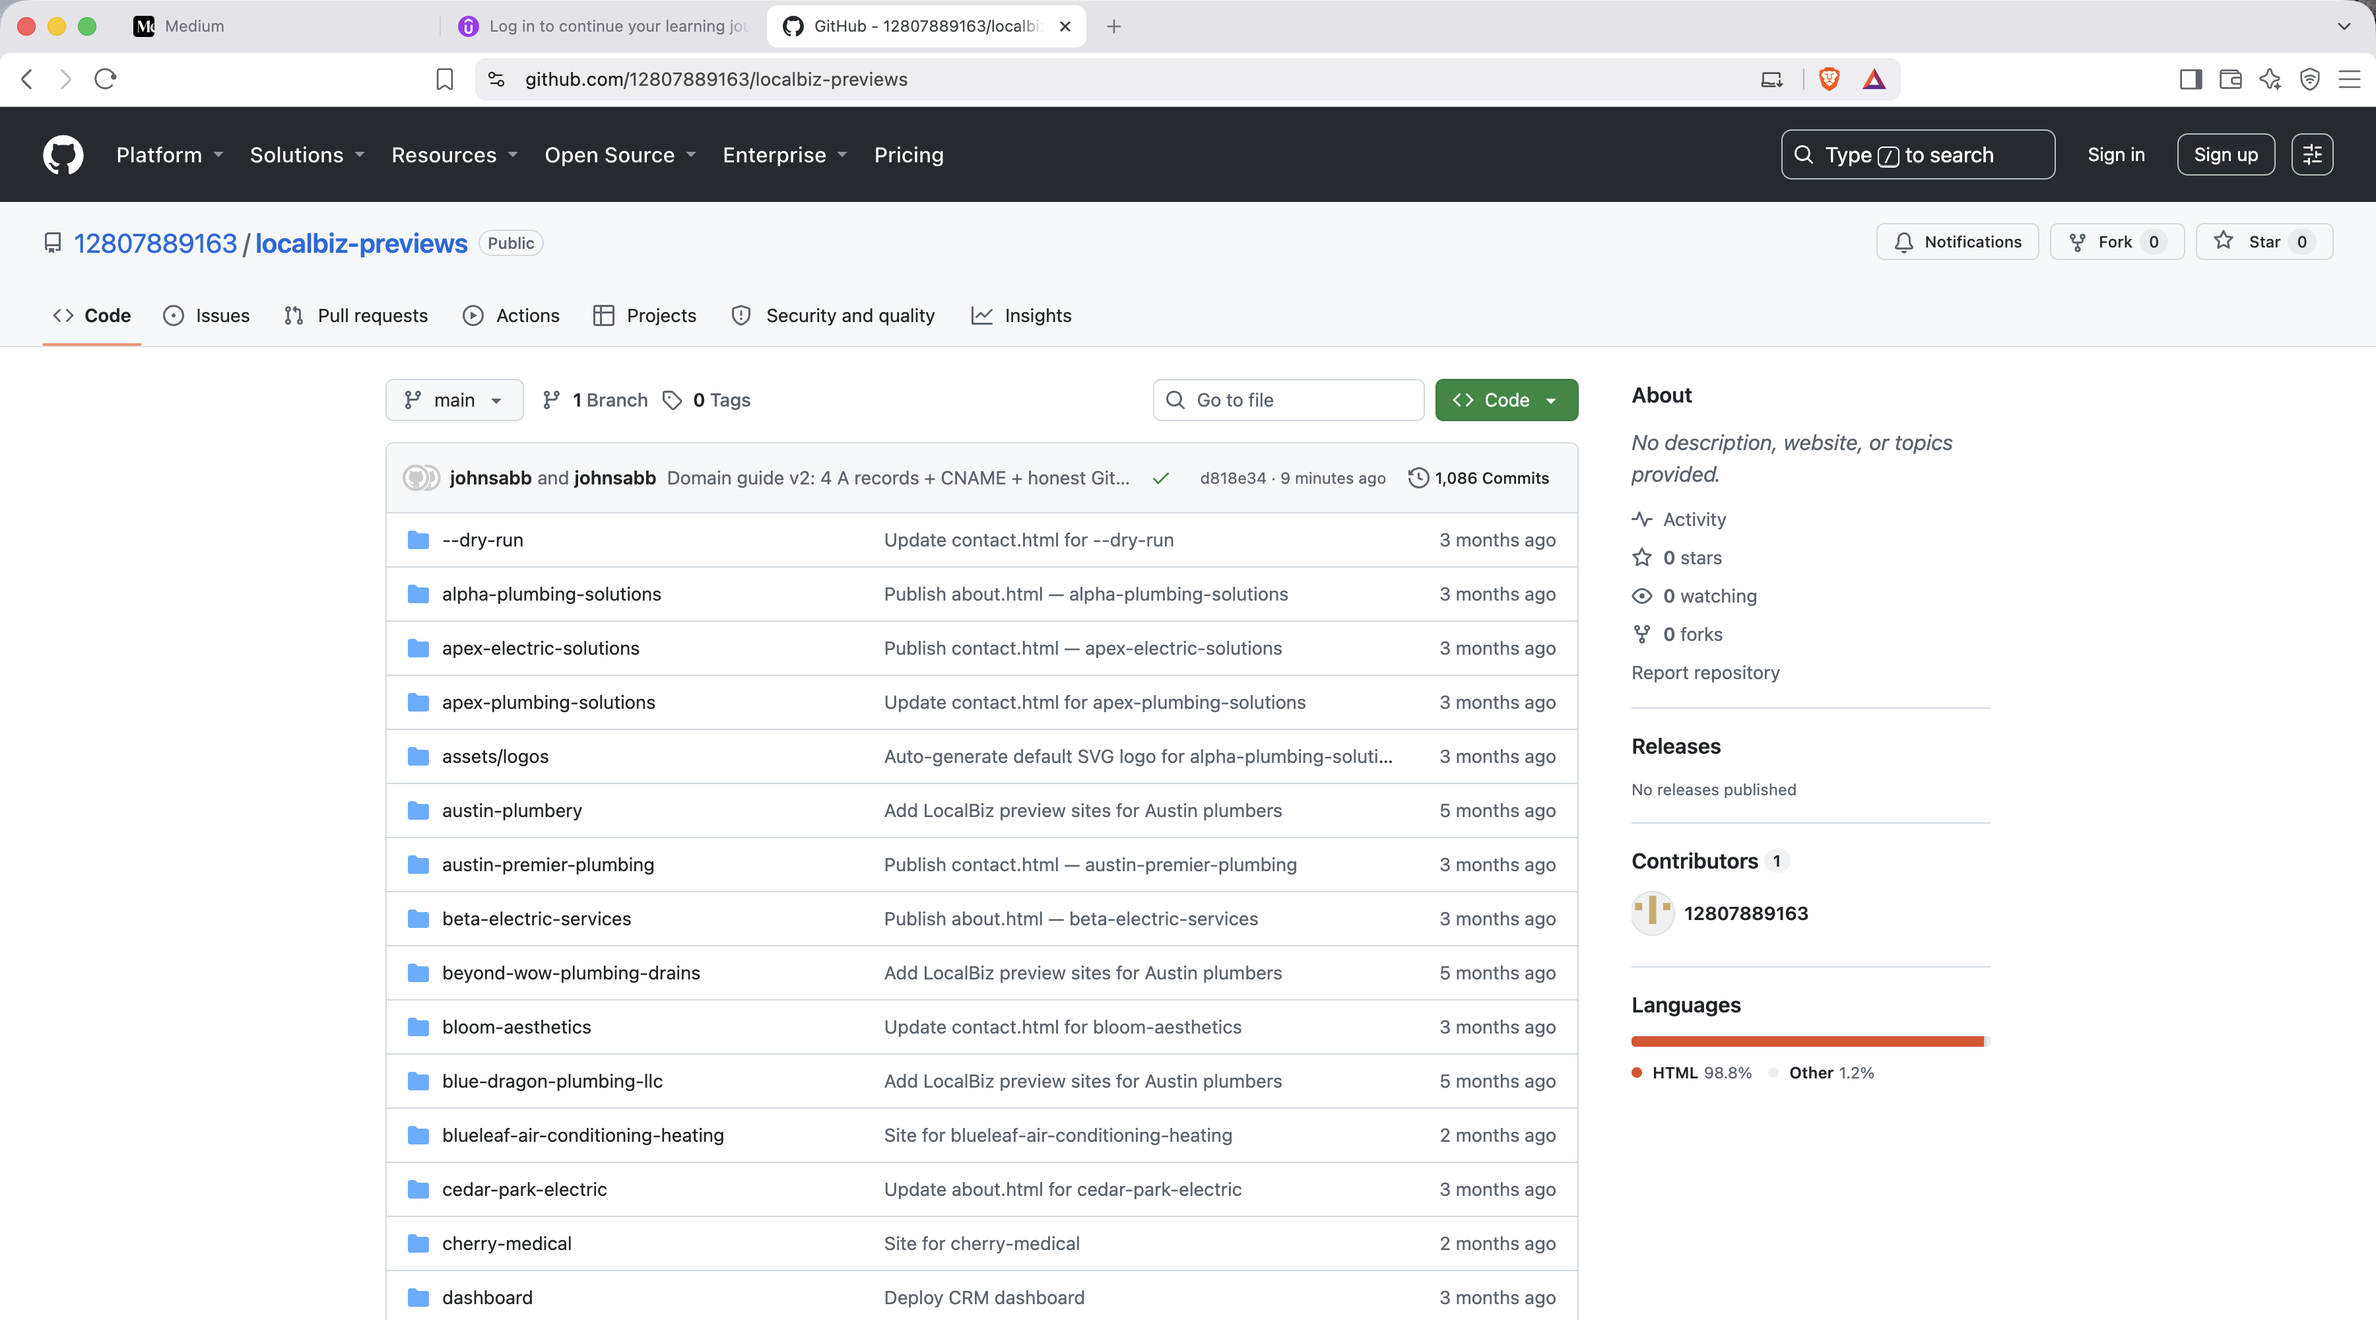
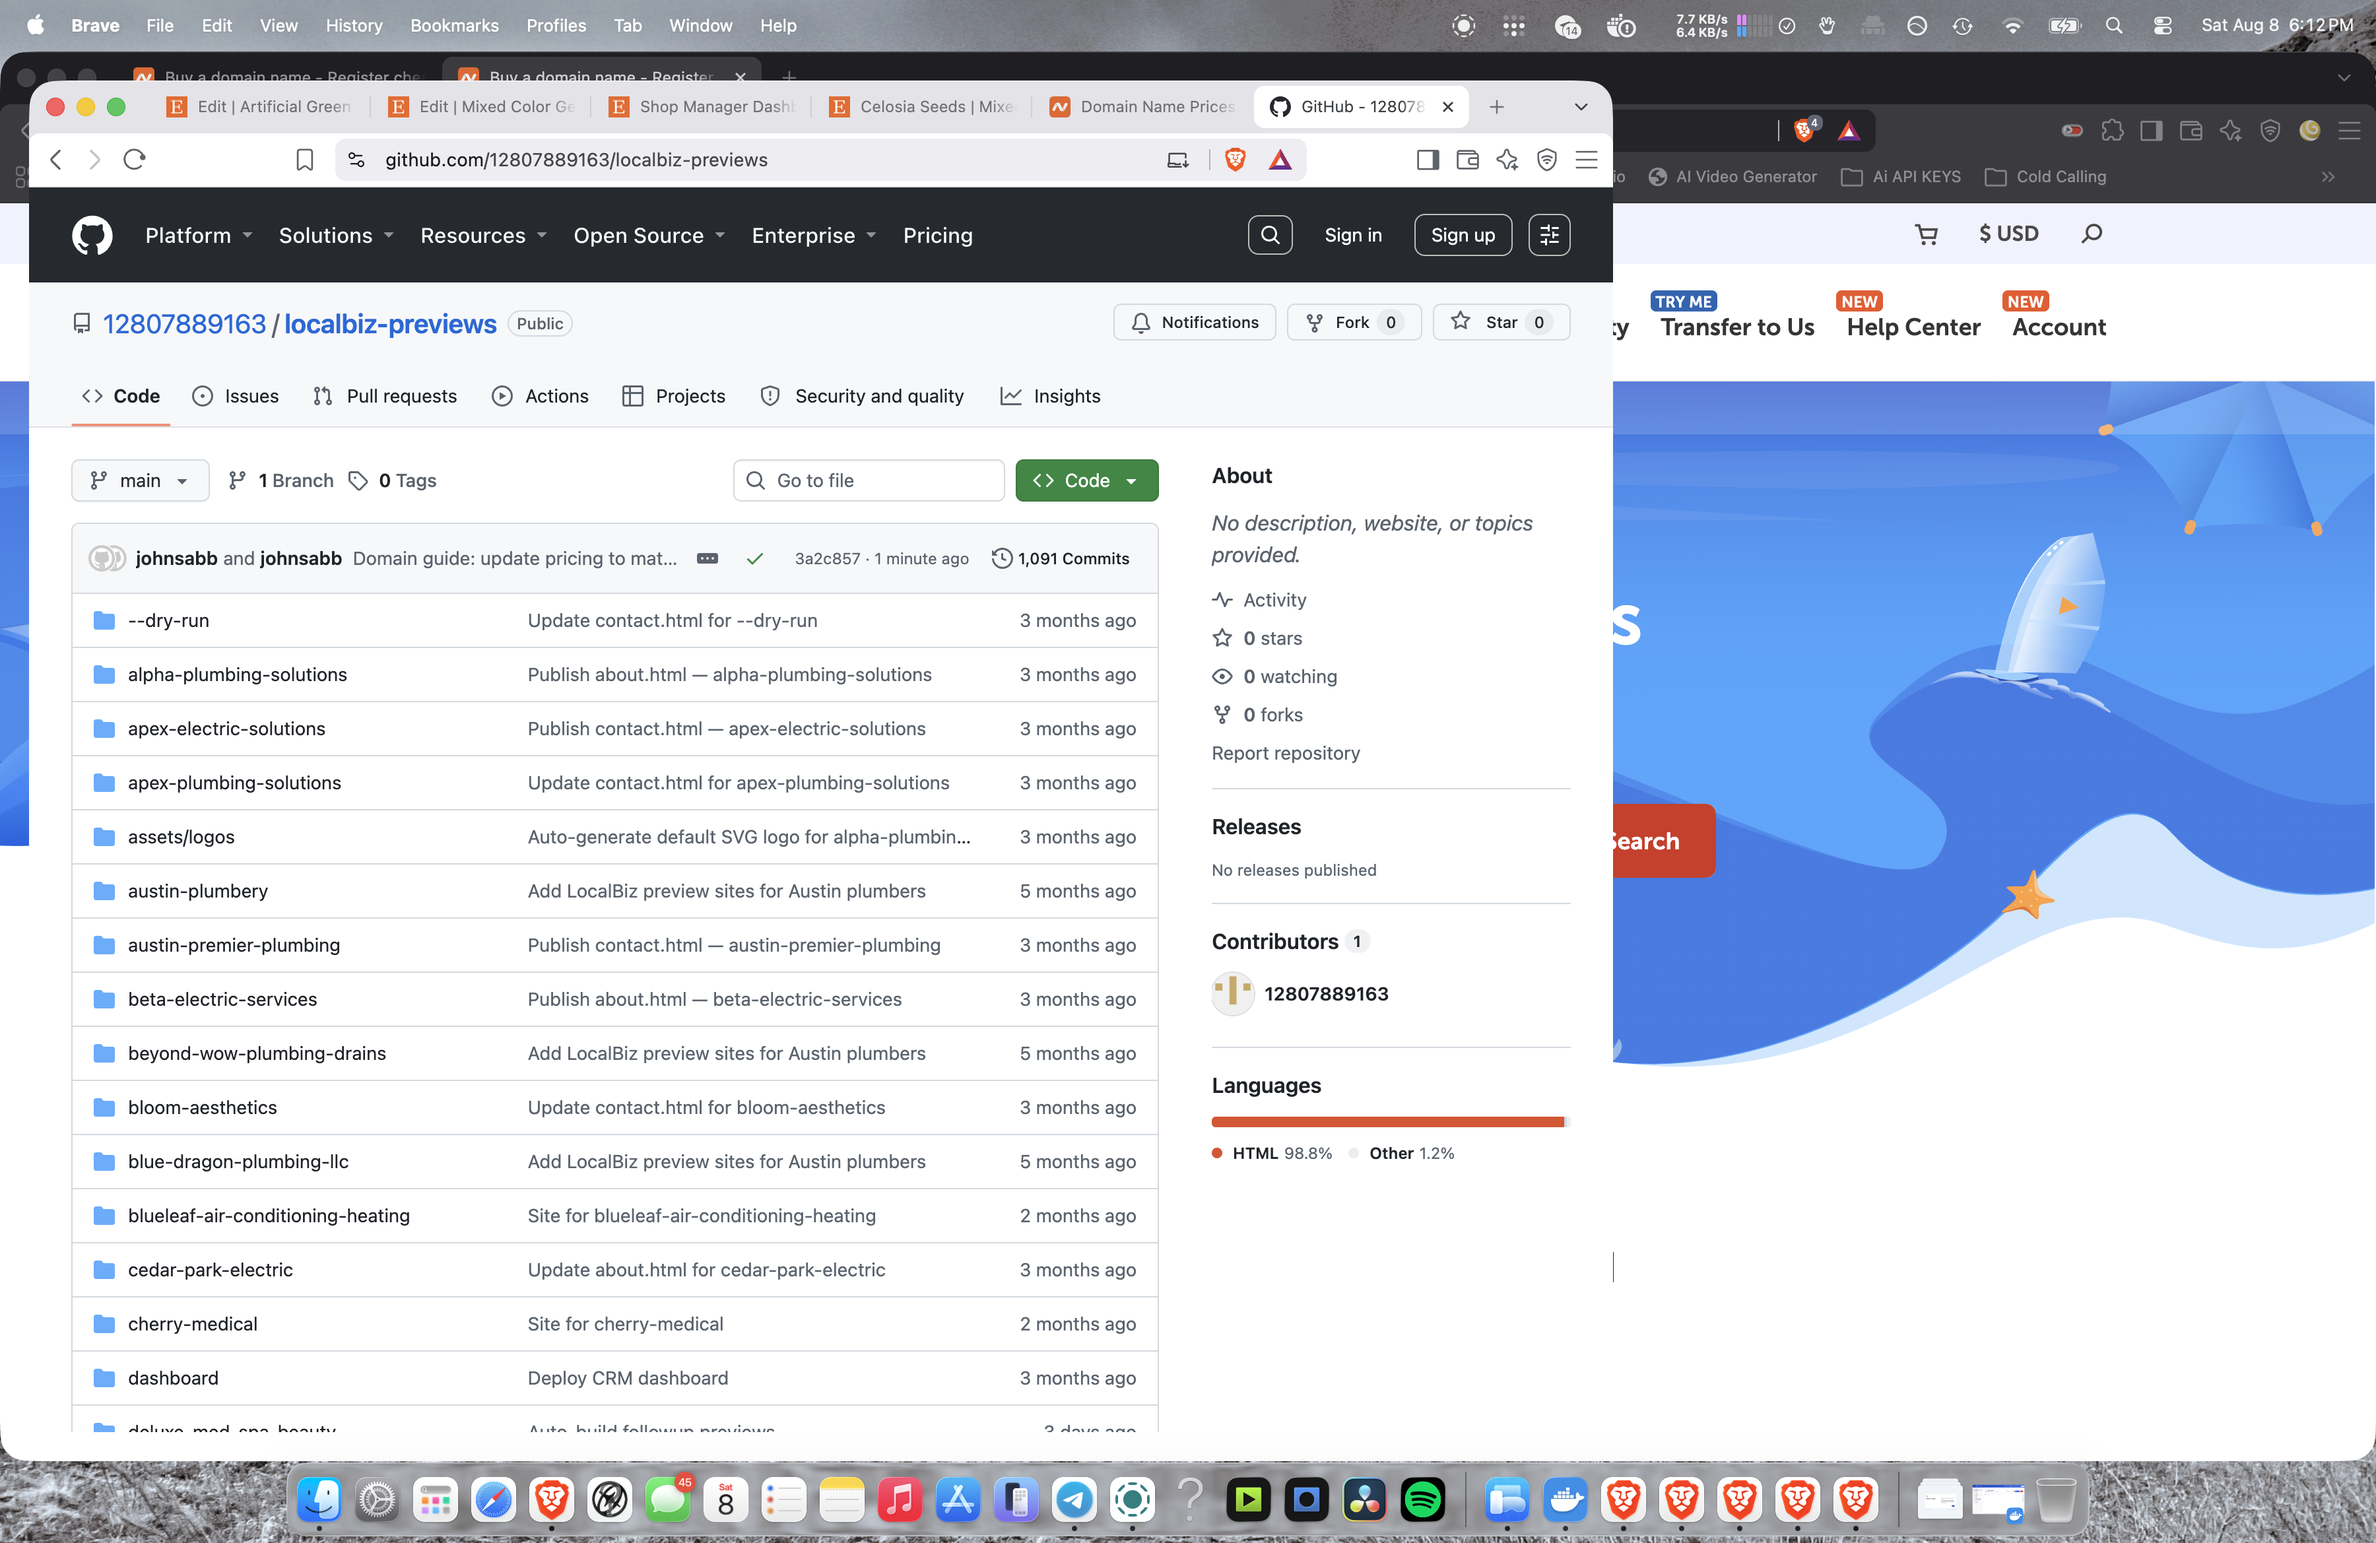
Domain guide: real GitHub Pages docs screenshot + updated captions

diff --git a/domain-guide/index.html b/domain-guide/index.html
@@ -593,17 +593,12 @@
       <div class="shot">
         <div class="shot-header">
           <span class="dots"><span class="dot r"></span><span class="dot y"></span><span class="dot g"></span></span>
-          <span class="shot-url">github.com/.../settings/pages</span>
+          <span class="shot-url">docs.github.com/en/pages</span>
         </div>
         <div class="shot-body">
-          <!-- TODO(auth): real GitHub Pages settings screenshot pending login session -->
-          <div style="background:#f8fafc;border:1px dashed #cbd5e1;padding:60px 20px;text-align:center;color:#475569;font-size:14px;border-radius:6px;">
-            <strong>Live screenshot pending</strong><br>
-            After you log into GitHub and open your repo, the Settings → Pages screen looks like the documentation at <a href="https://docs.github.com/en/pages" style="color:#1e40af;">docs.github.com/en/pages</a>. The two key fields you'll touch are <strong>Custom domain</strong> (where you enter your domain name) and <strong>Enforce HTTPS</strong> (which you tick ON).<br><br>
-            <span style="font-size:13px;color:#64748b;">Real screenshot will be added in the next version of this guide.</span>
-          </div>
+          <img src="images/04-github-pages-docs.png" alt="GitHub Pages docs page showing the table of supported custom domain types (www subdomain, Custom subdomain, Apex domain) — this is the documentation that mirrors what the Settings → Pages UI shows." loading="lazy">
         </div>
-        <div class="shot-caption"><strong>Placeholder</strong> — Settings → Pages. The Custom domain field accepts your domain; Enforce HTTPS is the toggle below it.</div>
+        <div class="shot-caption"><strong>Real screenshot</strong> — GitHub Pages docs showing the supported custom domain types. The actual Settings → Pages UI has the same fields: a <em>Custom domain</em> input where you type your domain, and an <em>Enforce HTTPS</em> checkbox below it.</div>
       </div>
 
       <div class="warn-box">
